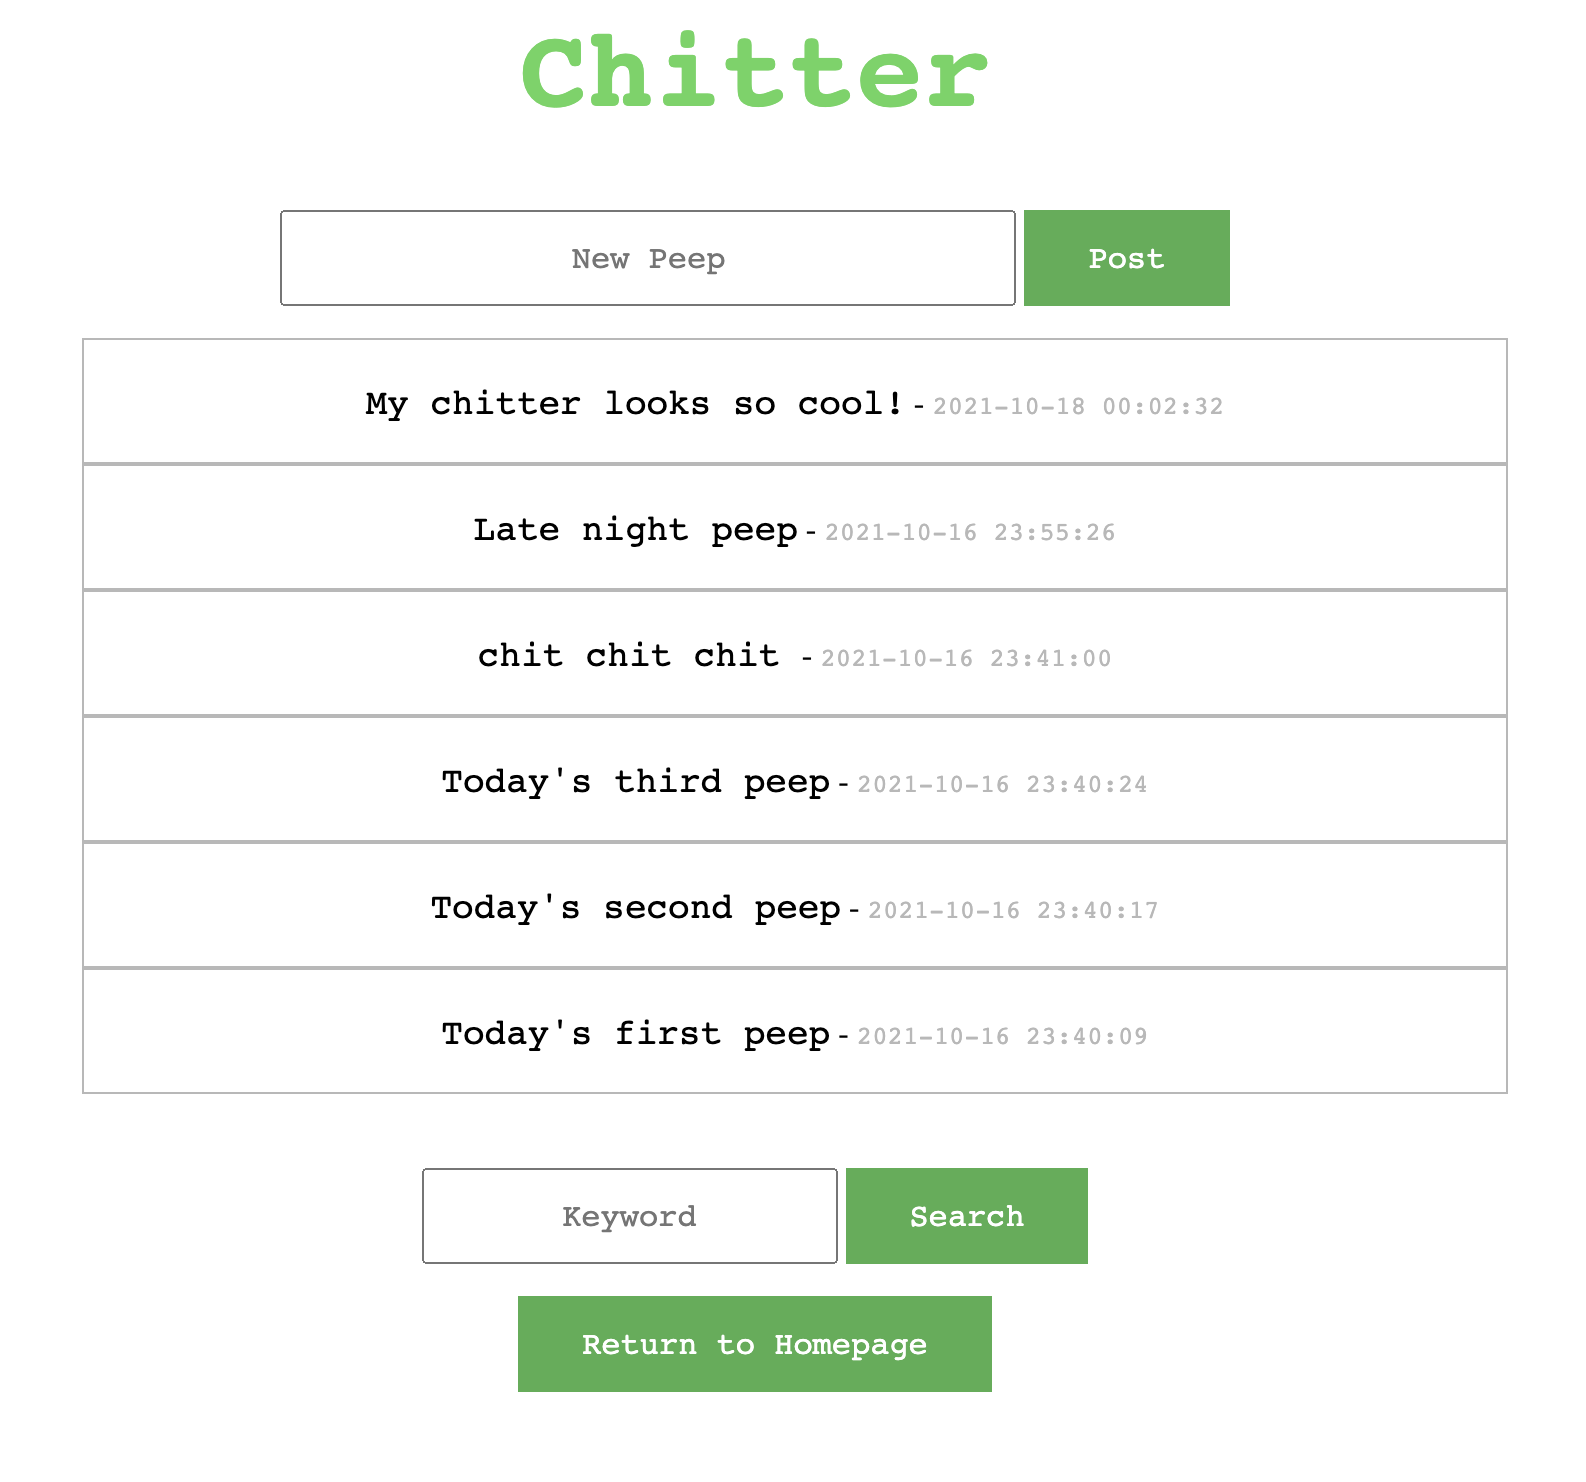
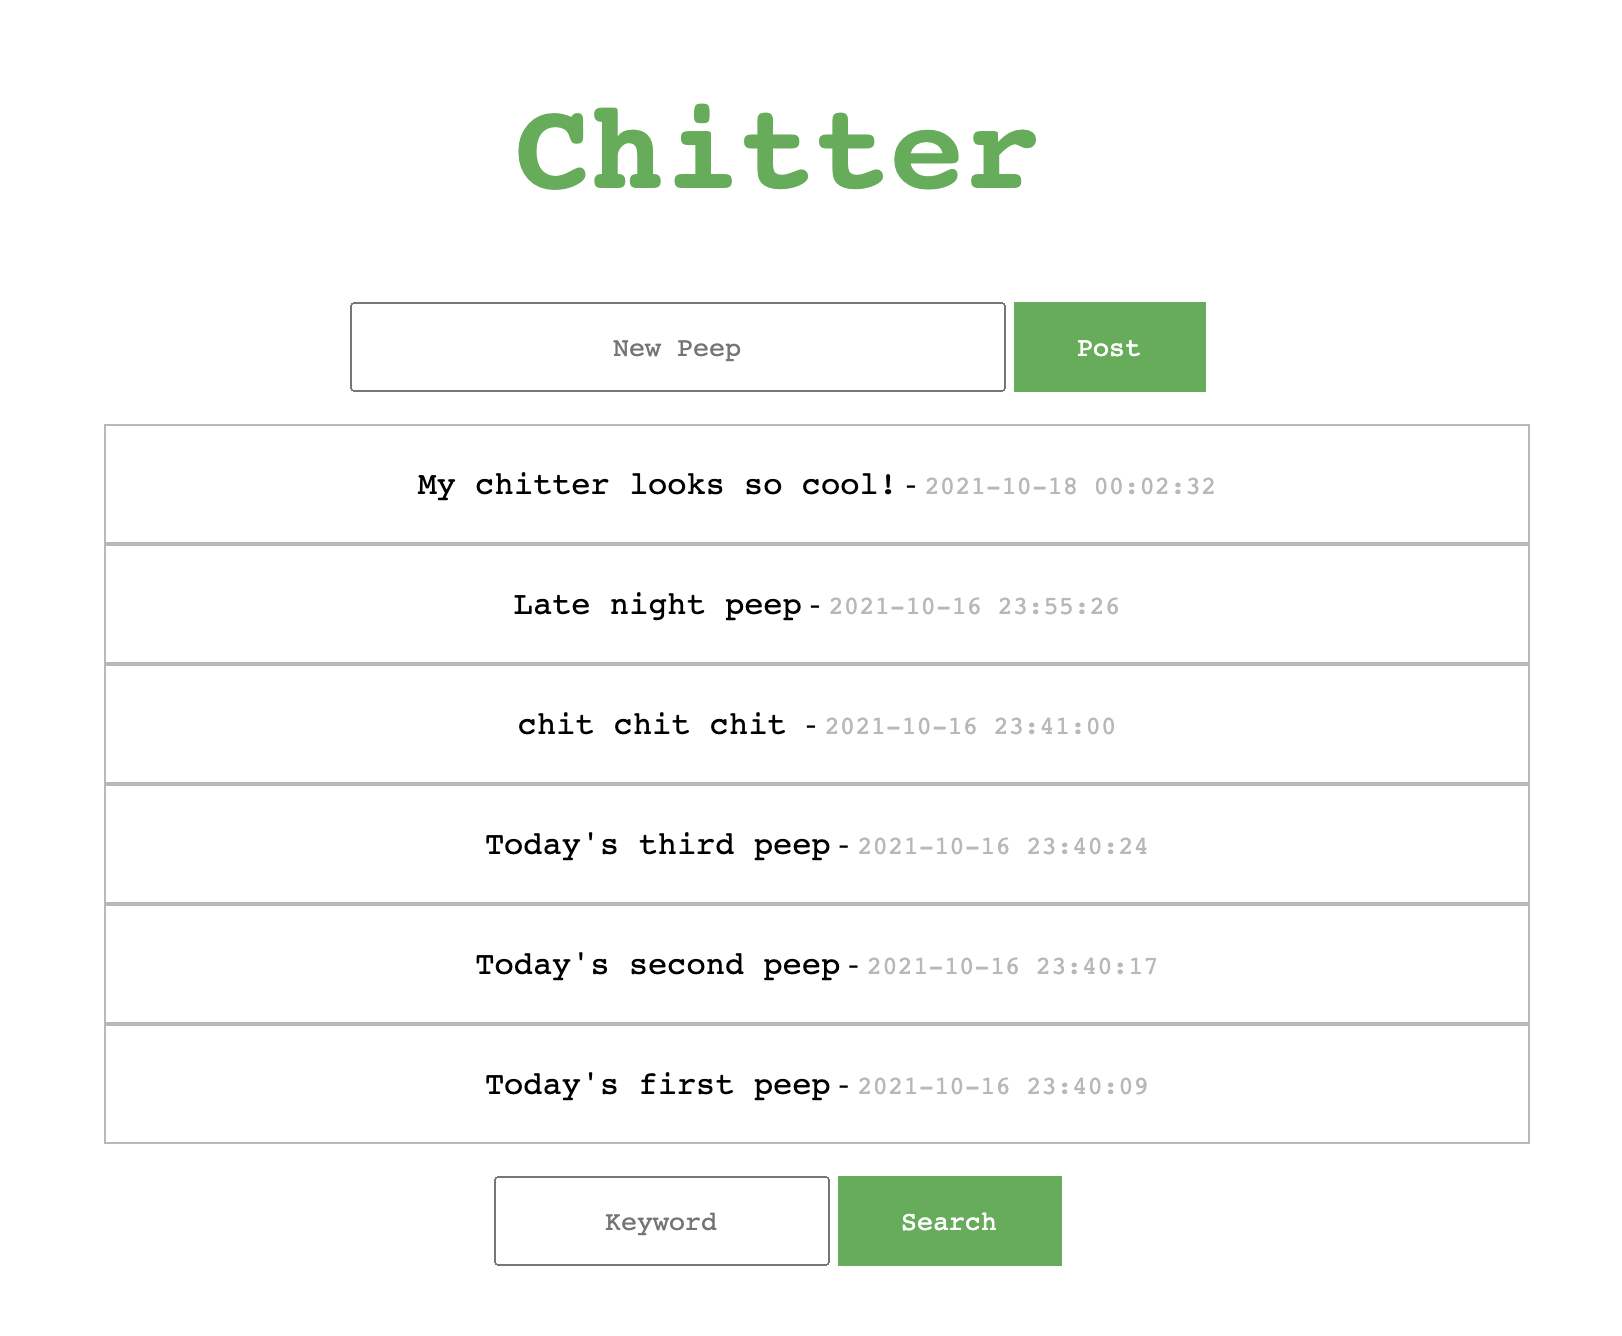
Refactor styling

diff --git a/README.md b/README.md
@@ -1,6 +1,6 @@
 ## Chitter Challenge
 
-We are going to write a small Twitter clone that will allow the users to post messages to a public stream.
+This is a small Twitter clone that will allow the users to post messages to a public stream.
 
 ![Chitter Homepage](chitter.png)
 
